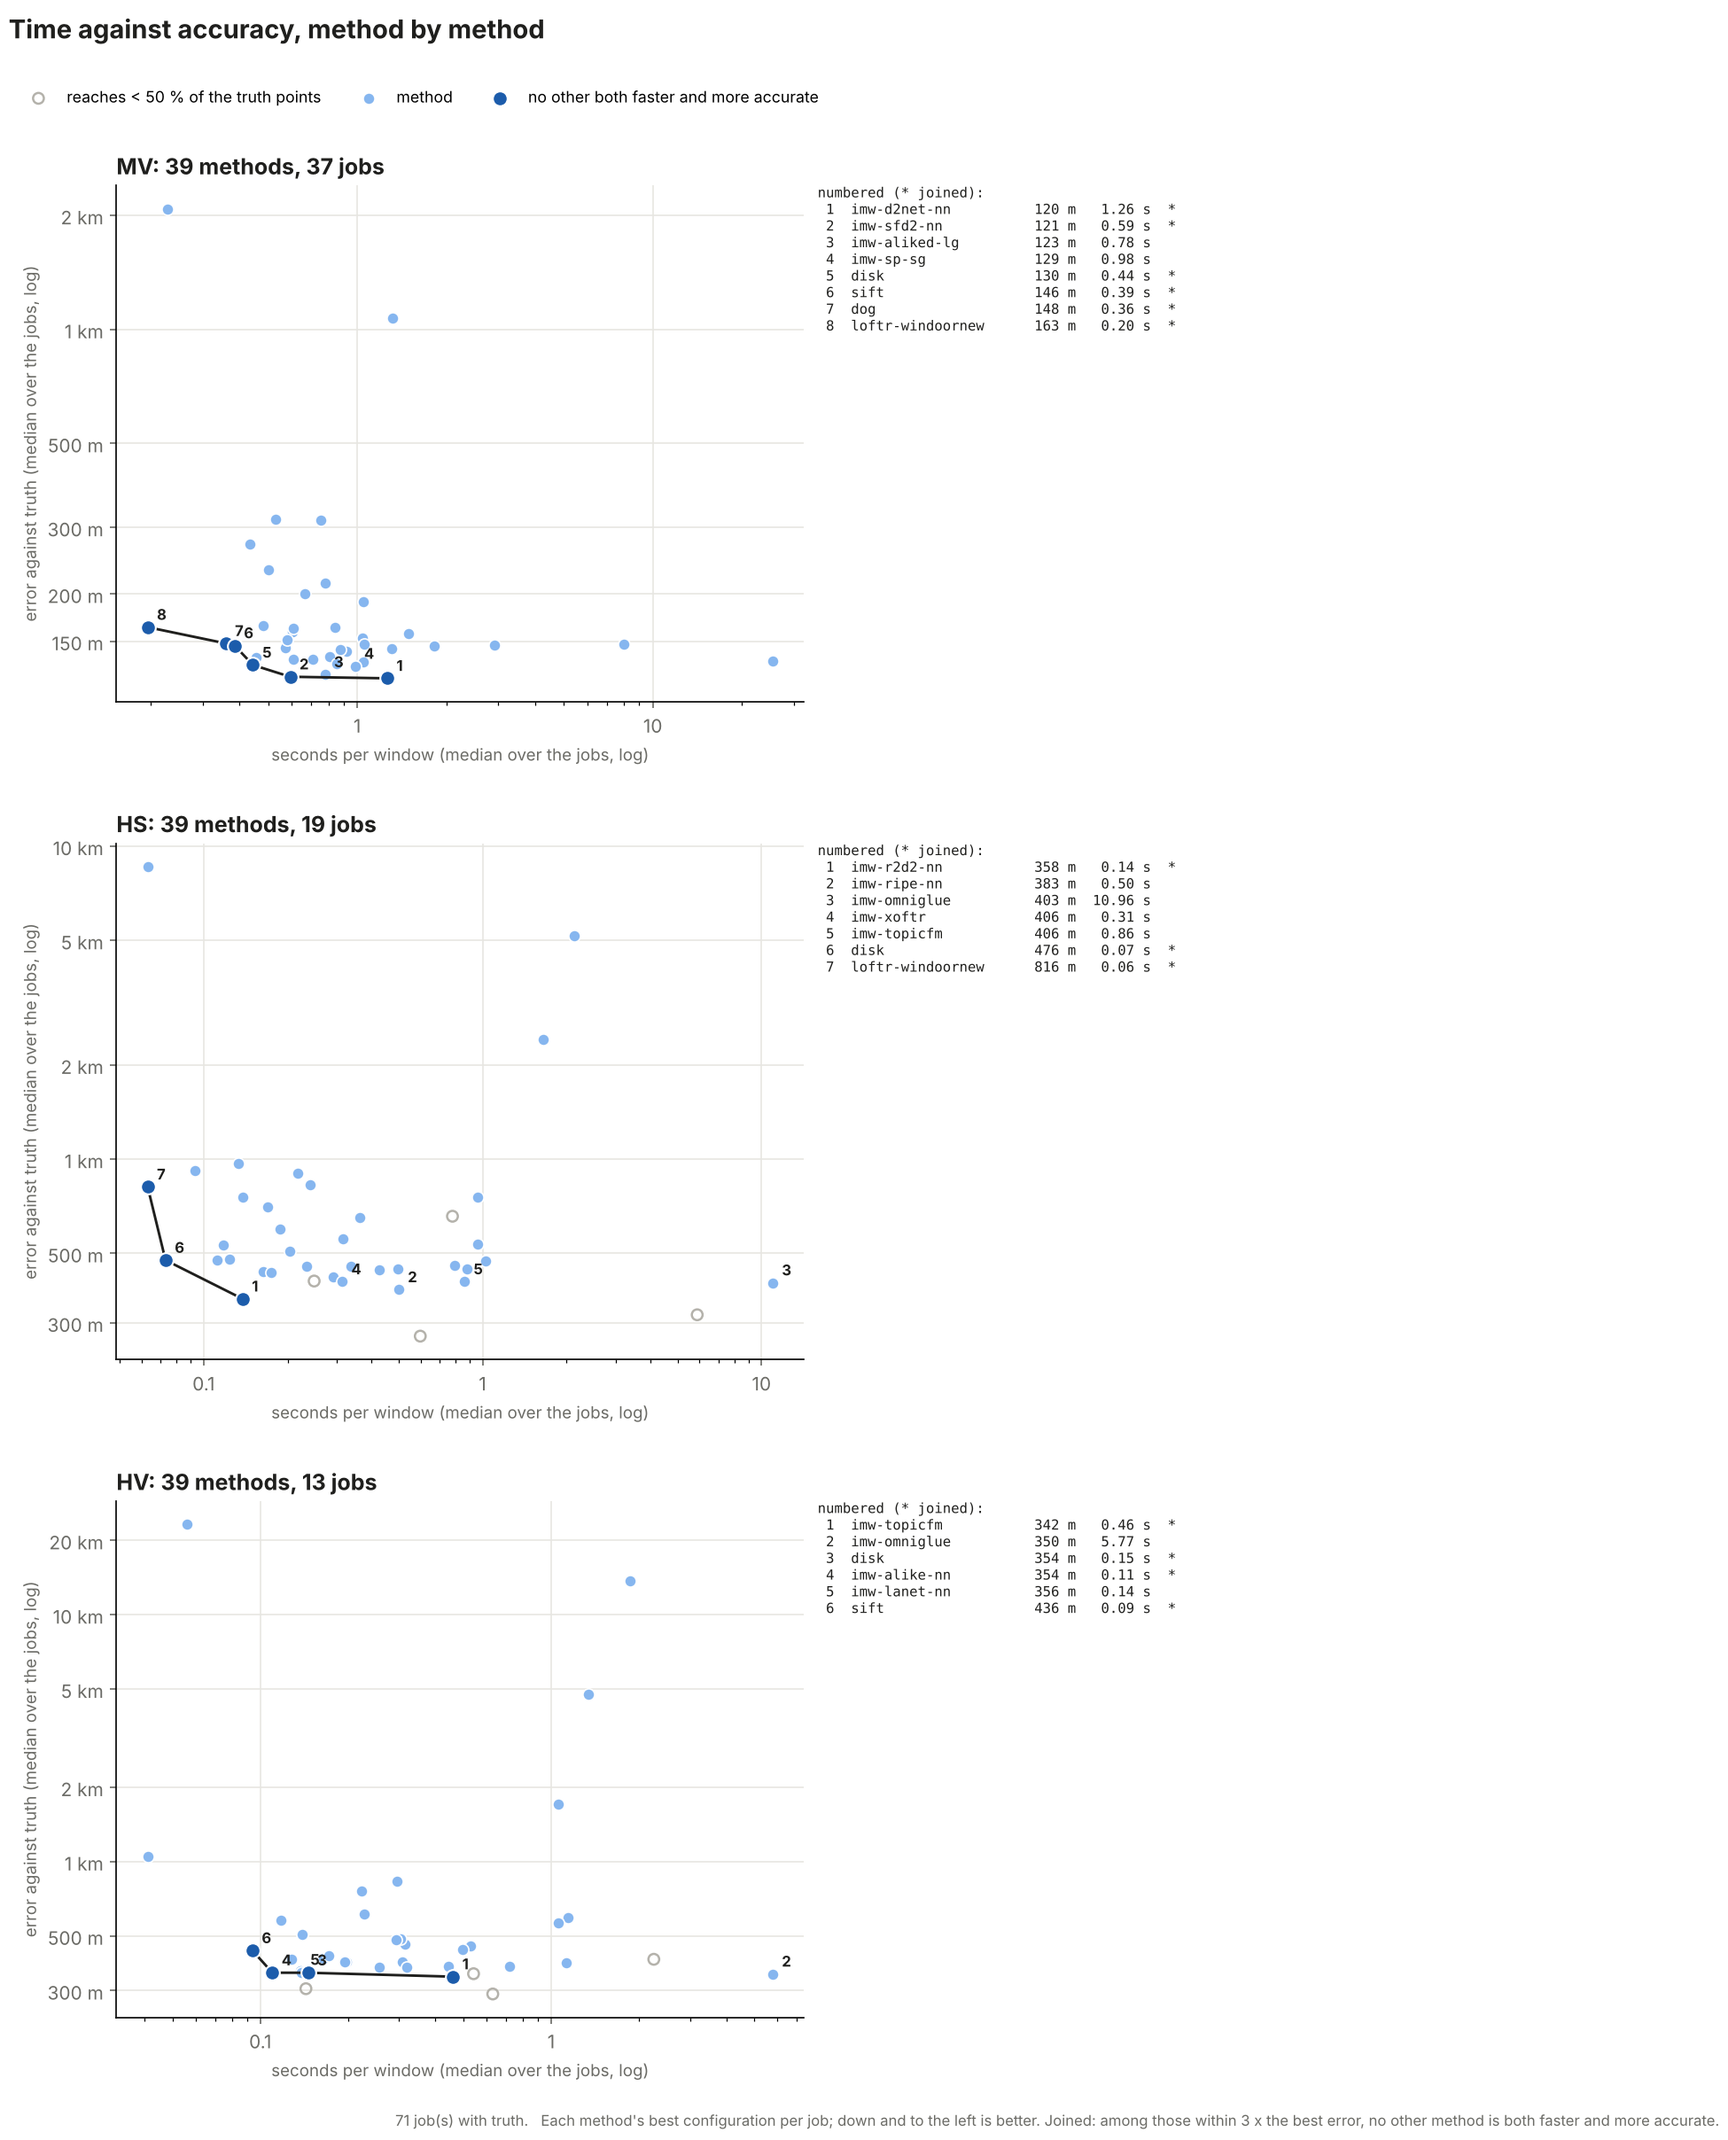
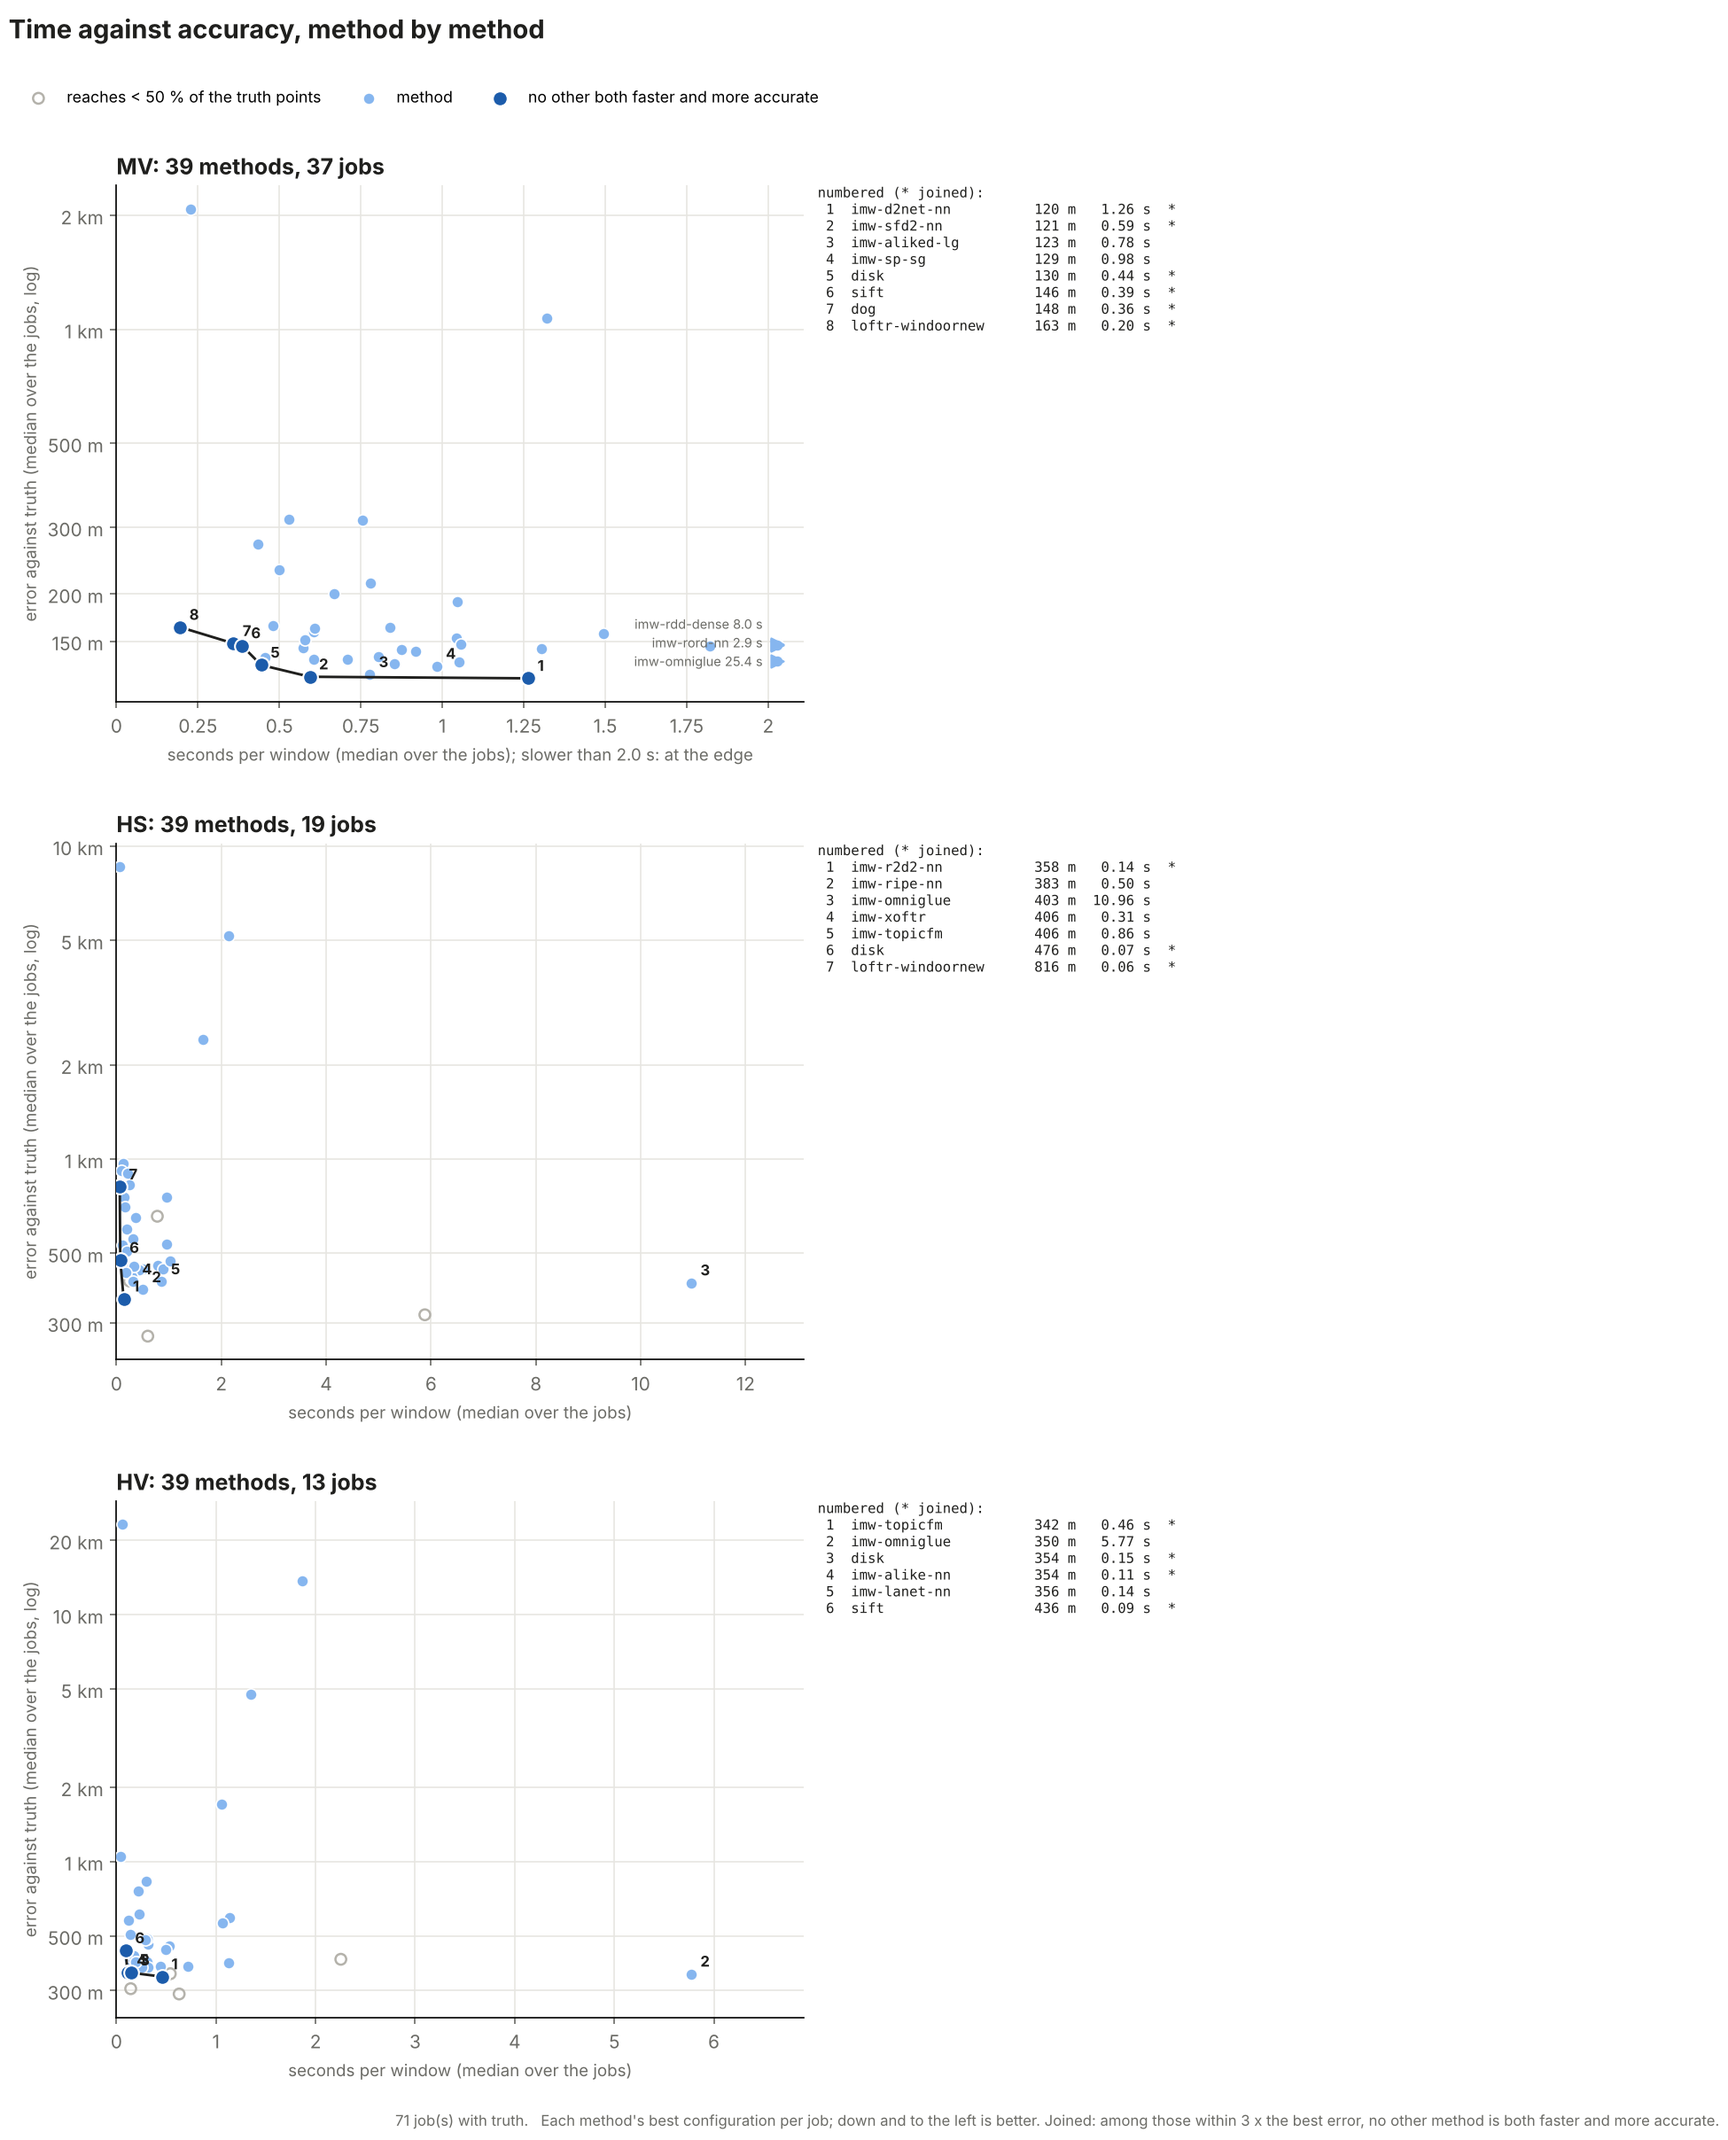
Time against accuracy: linear time axis, the few slow methods at its edge (named, with their time)
Claude-Session: https://claude.ai/code/session_0198cj5YTzAwzWGU6zUkU3Li

diff --git a/g1a_automatch/automatch_deviation.py b/g1a_automatch/automatch_deviation.py
@@ -495,6 +495,12 @@ def plot_time_accuracy(table, png: str, title: str = '', note: str = '', min_rea
             if r['rmse'] < best:
                 front.append(d)
                 best = r['rmse']
+        named = list(dict.fromkeys(front + list(ok.sort_values('rmse').index[:5])))
+        # linear time axis: up to a bit past most methods (and every named one); slower ones at the edge
+        xcap = max(1.3 * float(g['spw'].quantile(0.9)), 1.15 * float(g.loc[named, 'spw'].max()) if named else 0.0)
+        far = g[g['spw'] > xcap]
+        g = g.assign(spw_raw=g['spw'], spw=g['spw'].clip(upper=xcap))
+        ok = g[g['reach'] >= min_reach]
         low = g[g['reach'] < min_reach]
         ax.scatter(low['spw'], low['rmse'], s=34, facecolors='none', edgecolors=UNKNOWN, linewidths=1.2, zorder=2,
                    label=f'reaches < {100 * min_reach:.0f} % of the truth points')
@@ -505,25 +511,33 @@ def plot_time_accuracy(table, png: str, title: str = '', note: str = '', min_rea
         ax.plot(fr['spw'], fr['rmse'], color=INK, lw=1.4, zorder=4)
         ax.scatter(fr['spw'], fr['rmse'], s=64, color='#1c5cab', edgecolors=SURFACE, linewidths=1.0, zorder=5,
                    label='no other both faster and more accurate')
-        named = list(dict.fromkeys(front + list(ok.sort_values('rmse').index[:5])))
         named.sort(key=lambda d: g.loc[d, 'rmse'])
+        ly = None
+        for d, r in far.sort_values('rmse').iterrows():     # slower than the axis: an arrowhead at the edge, named
+            ax.scatter([xcap], [r['rmse']], marker='>', s=46, color='#86b6ef' if r['reach'] >= min_reach else UNKNOWN,
+                       zorder=6)
+            y = r['rmse'] if ly is None else max(r['rmse'], ly * 1.12)     # labels apart on the log axis
+            ly = y
+            ax.annotate(f"{d} {r['spw']:.1f} s", (xcap, y), xytext=(-8, 0), textcoords='offset points',
+                        ha='right', va='center', fontsize=7, color=MUTED, zorder=6)
         lines = []
         for k, d in enumerate(named, 1):
             r = g.loc[d]
             ax.annotate(str(k), (r['spw'], r['rmse']), xytext=(5, 4), textcoords='offset points', fontsize=8,
                         fontweight='bold', color=INK, zorder=6)
-            lines.append(f"{k:>2}  {d:<18.18} {r['rmse']:>6.0f} m {r['spw']:>6.2f} s"
+            lines.append(f"{k:>2}  {d:<18.18} {r['rmse']:>6.0f} m {r['spw_raw']:>6.2f} s"
                          + ('  *' if d in front else ''))
         ax.text(1.02, 1.0, 'numbered (* joined):\n' + '\n'.join(lines), transform=ax.transAxes, ha='left',
                 va='top', fontsize=7.5, family='monospace', color=INK)
-        ax.set_xscale('log')
+        ax.set_xlim(0, xcap * 1.04)
         ax.set_yscale('log')
         lo, hi = float(g['rmse'].min()), float(g['rmse'].max())
         ax.yaxis.set_major_locator(mt.FixedLocator([v for v in nice if lo / 1.5 <= v <= hi * 1.5] or nice))
         ax.yaxis.set_minor_locator(mt.NullLocator())
         ax.yaxis.set_major_formatter(mt.FuncFormatter(lambda v, _p: f'{v:g} m' if v < 1000 else f'{v / 1000:g} km'))
         ax.xaxis.set_major_formatter(mt.FuncFormatter(lambda v, _p: f'{v:g}'))
-        ax.set_xlabel('seconds per window (median over the jobs, log)', fontsize=9, color=MUTED)
+        ax.set_xlabel('seconds per window (median over the jobs)' + (f'; slower than {xcap:.1f} s: at the edge'
+                                                                         if len(far) else ''), fontsize=9, color=MUTED)
         ax.set_ylabel('error against truth (median over the jobs, log)', fontsize=9, color=MUTED)
         ax.grid(color='#e7e6e2', lw=0.8, zorder=0)
         ax.tick_params(colors=MUTED)
